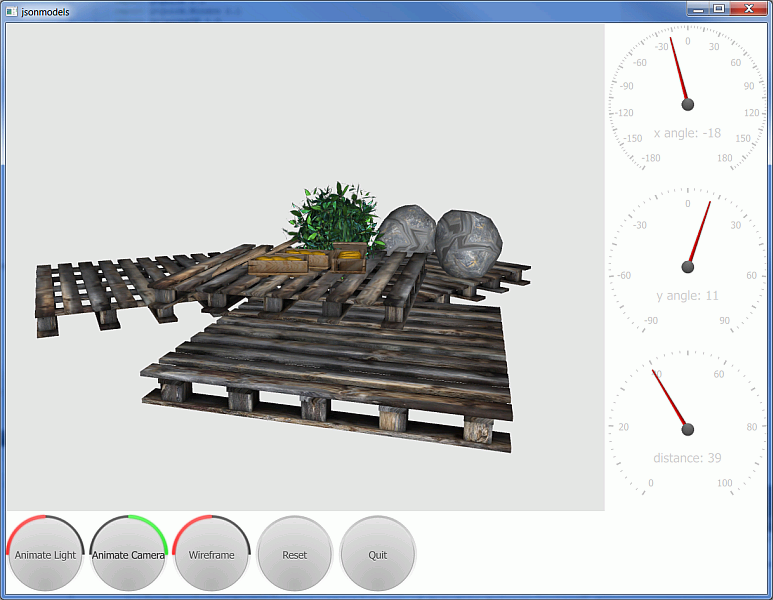
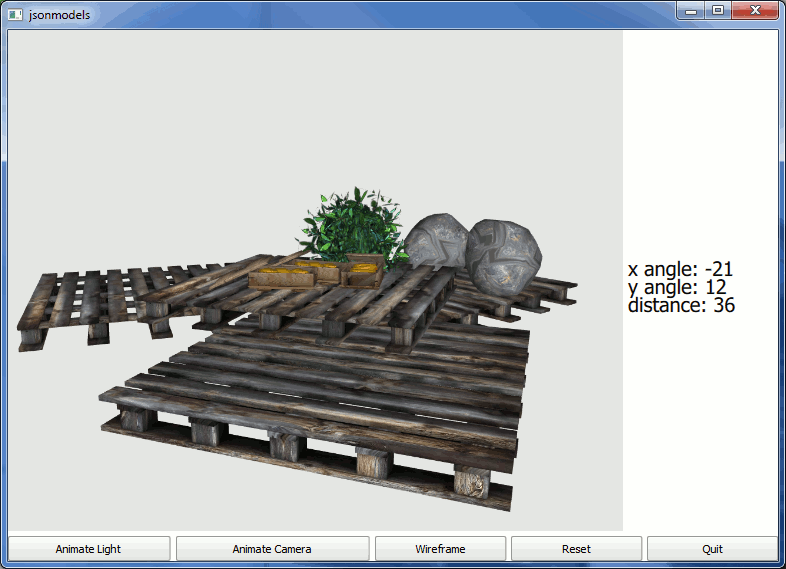
Change jsonmodels example to use open source controls by default.
Also worked around the issues with gauge style backgrounds in
the enterprise controls version and tweaked the default ui
a bit.

diff --git a/examples/canvas3d/jsonmodels/jsonmodels.qml b/examples/canvas3d/jsonmodels/jsonmodels.qml
@@ -96,65 +96,77 @@ Window {
 
             ColumnLayout {
                 CircularGauge {
+                    Layout.fillHeight: true
                     minimumValue: -180
                     maximumValue: 180
                     value: canvas3d.xRot
                     style: CircularGaugeStyle {
                         labelStepSize: 30
                         tickmarkStepSize: 15
-                        background: Canvas {
-                            Text {
-                                font.pixelSize: 20
-                                text: "x angle: " + angle
-                                color: "lightgray"
-                                horizontalAlignment: Text.AlignHCenter
-                                anchors.horizontalCenter: parent.horizontalCenter
-                                anchors.top: parent.verticalCenter
-                                anchors.topMargin: parent.height / 8
-                                readonly property int angle: canvas3d.xRot
-                            }
+                    }
+                    Rectangle {
+                        anchors.fill: parent
+                        color: "#00000000"
+                        z: parent.z - 1
+                        Text {
+                            font.pixelSize: 20
+                            text: "x angle: " + angle
+                            color: "darkgray"
+                            horizontalAlignment: Text.AlignHCenter
+                            anchors.horizontalCenter: parent.horizontalCenter
+                            anchors.top: parent.verticalCenter
+                            anchors.topMargin: parent.height / 8
+                            readonly property int angle: canvas3d.xRot
                         }
                     }
                 }
                 CircularGauge {
+                    Layout.fillHeight: true
                     minimumValue: -90
                     maximumValue: 90
                     value: canvas3d.yRot
                     style: CircularGaugeStyle {
                         labelStepSize: 30
                         tickmarkStepSize: 15
-                        background: Canvas {
-                            Text {
-                                font.pixelSize: 20
-                                text: "y angle: " + angle
-                                color: "lightgray"
-                                horizontalAlignment: Text.AlignHCenter
-                                anchors.horizontalCenter: parent.horizontalCenter
-                                anchors.top: parent.verticalCenter
-                                anchors.topMargin: parent.height / 8
-                                readonly property int angle: canvas3d.yRot
-                            }
+                    }
+                    Rectangle {
+                        anchors.fill: parent
+                        color: "#00000000"
+                        z: parent.z - 1
+                        Text {
+                            font.pixelSize: 20
+                            text: "y angle: " + angle
+                            color: "darkgray"
+                            horizontalAlignment: Text.AlignHCenter
+                            anchors.horizontalCenter: parent.horizontalCenter
+                            anchors.top: parent.verticalCenter
+                            anchors.topMargin: parent.height / 8
+                            readonly property int angle: canvas3d.yRot
                         }
                     }
                 }
                 CircularGauge {
+                    Layout.fillHeight: true
                     minimumValue: 0
                     maximumValue: 100
                     value: canvas3d.distance * 10
                     style: CircularGaugeStyle {
                         labelStepSize: 20
                         tickmarkStepSize: 10
-                        background: Canvas {
-                            Text {
-                                font.pixelSize: 20
-                                text: "distance: " + distance
-                                color: "lightgray"
-                                horizontalAlignment: Text.AlignHCenter
-                                anchors.horizontalCenter: parent.horizontalCenter
-                                anchors.top: parent.verticalCenter
-                                anchors.topMargin: parent.height / 8
-                                readonly property int distance: canvas3d.distance * 10
-                            }
+                    }
+                    Rectangle {
+                        anchors.fill: parent
+                        color: "#00000000"
+                        z: parent.z - 1
+                        Text {
+                            font.pixelSize: 20
+                            text: "distance: " + distance
+                            color: "darkgray"
+                            horizontalAlignment: Text.AlignHCenter
+                            anchors.horizontalCenter: parent.horizontalCenter
+                            anchors.top: parent.verticalCenter
+                            anchors.topMargin: parent.height / 8
+                            readonly property int distance: canvas3d.distance * 10
                         }
                     }
                 }

diff --git a/examples/canvas3d/jsonmodels/jsonmodelsbasic.qml b/examples/canvas3d/jsonmodels/jsonmodelsbasic.qml
@@ -107,23 +107,27 @@ Window {
             Layout.fillWidth: true
             Button {
                 id: lightButton
+                Layout.fillWidth: true
                 text: "Animate Light"
                 checkable: true
                 onCheckedChanged: canvas3d.animatingLight = checked
             }
             Button {
                 id: cameraButton
+                Layout.fillWidth: true
                 text: "Animate Camera"
                 checkable: true
                 onCheckedChanged: canvas3d.animatingCamera = checked
             }
             Button {
                 id: drawButton
+                Layout.fillWidth: true
                 text: "Wireframe"
                 checkable: true
                 onCheckedChanged: canvas3d.drawWireframe = checked
             }
             Button {
+                Layout.fillWidth: true
                 text: "Reset"
                 onClicked: {
                     canvas3d.xRot = 0.0
@@ -139,6 +143,7 @@ Window {
                 }
             }
             Button {
+                Layout.fillWidth: true
                 text: "Quit"
                 onClicked: Qt.quit()
             }

diff --git a/examples/canvas3d/jsonmodels/main.cpp b/examples/canvas3d/jsonmodels/main.cpp
@@ -1,4 +1,4 @@
-//#define NO_ENTERPRISE
+#define NO_ENTERPRISE
 
 #include <QGuiApplication>
 #include <QQmlApplicationEngine>
